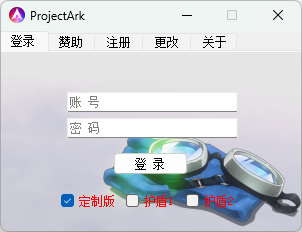
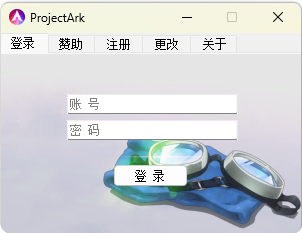
new version

diff --git a/setup.md b/setup.md
@@ -9,26 +9,16 @@ projectArk: True
 
 
 ## 环境设置
-
-- 系统缩放：100%，[设置方法](https://jingyan.baidu.com/article/c85b7a642cd5f6413bac95b7.html)
-- 防火墙：卸载非 windows 的**全部杀毒软件、软件管家**，添加系统防火墙白名单
+- 防火墙：卸载非 windows 的**全部杀毒软件、软件管家**，添加本程序至系统防火墙白名单
+- [系统缩放](https://jingyan.baidu.com/article/c85b7a642cd5f6413bac95b7.html)：100%
 
 ## 启动
-- 新建文件夹，解压并运行 ProjectArk.exe
-- 登录界面：
-  - 定制版: 安全性更强
-  - 护盾1: 建议开启此护盾避免其他游戏误检测，需要关闭 Secure Boot
-  - 护盾2: 增强防检测，需要关闭 Secure Boot
-  - 注：私服不需要，若勾选后程序无法启动或系统蓝屏则勿开启
-- 注册：自助注册，时长自动到账，扫码切忌超时
-- 赞助：到期后自行赞助，时长自动到账，扫码切忌超时
+- 解压本程序至新文件夹中并运行
+- 注册：自助注册，时长自动到账，切忌扫码超时
+- 赞助：到期后自行赞助，时长自动到账，切忌扫码超时
 - 更改：修改账号密码
   
   ![23]({{site.cdn}}/resource/ark_login.png)
-
-<!-- - 主界面：
-
-  ![12]({{site.cdn}}/resource/main.png) -->
 
 - 时长查询：
 
@@ -48,9 +38,9 @@ projectArk: True
   ![12]({{site.cdn}}/resource/set.png)
 
 ## 快捷键
-- 左键小图标：隐藏/显示 ProjectArk
+- 左键小图标：隐藏/显示本程序
 - ctrl-s: 保存参数配置
-- ctrl-w: 关闭 ProjectArk
+- ctrl-w: 关闭本程序
 
 <!-- - 自定义快捷键：修改配置文件中相关内容
 

diff --git a/rpg.md b/rpg.md
@@ -1,32 +1,27 @@
 ---
 layout: default
 title: RPG
-description: 功能说明
+description: 游戏功能教程
 projectArk: True
 ---
 
 # RPG
-> 版本: v4.643
+> 版本: v4.668
 >
-> 更新日期: 2024.05.04
+> 更新日期: 2024.7.14
 
 - [RPG](#rpg)
   - [菜单](#菜单)
   - [主页](#主页)
   - [配置](#配置)
   - [BUFF](#buff)
-  - [常见问题](#常见问题)
 
-## 简介
-- 支持自动后台变速、找怪、捡物、皇家寻路、副本寻路、强化+9、转盘、扭蛋、兑换、过答题、断线重连、快速点击道具、锁地图、自动彩卡
-  - 对战支持全队攻击、上卡、进化、捕捉、召唤、自动逃跑、自动找活动怪等
-  - 战后支持全背包补卡、回复evp、补buff、副宠复活等
-
+## 基础设置
 初次使用请阅读 <A href="/setup">基础设置说明</A>
 
 ## 菜单
 
-- 右键屏幕右下角任务栏小图标，打开菜单：
+- 右键系统托盘，唤出菜单：
 
   ![12]({{site.cdn}}/resource/taskbar.png)
 
@@ -34,7 +29,7 @@ projectArk: True
 
   ![12]({{site.cdn}}/resource/rpg_version.png)
 
-- 时长：各功能到期时间
+- 时长：
 
   ![12]({{site.cdn}}/resource/rpg_time.png)
 

diff --git a/index.md b/index.md
@@ -6,9 +6,9 @@ projectArk: True
 ---
 # 简介
 
-- 支持自动后台变速、找怪、捡物、皇家寻路、副本寻路、强化+9、转盘、扭蛋、兑换、过答题、断线重连、快速点击道具、锁地图、自动彩卡
-  - 对战支持全队攻击、上卡、进化、捕捉、召唤、自动逃跑、自动找活动怪等
-  - 战后支持全背包补卡、回复evp、补buff、副宠复活等
+- 支持自动后台变速、找怪、捡物、皇家寻路、副本寻路、强化+9、转盘、扭蛋、兑换、过答题、断线重连、快速点击道具、自动彩卡
+  - 对战支持自动全队攻击、上卡、进化、捕捉、召唤、逃跑、找活动怪、PVP等
+  - 战后支持自动全背包补卡、回复EVP、补BUFF、副宠复活等
 
 <!-- ## DMO
 - 优化 DMO-CPU 占用至 1%，安静挂机
